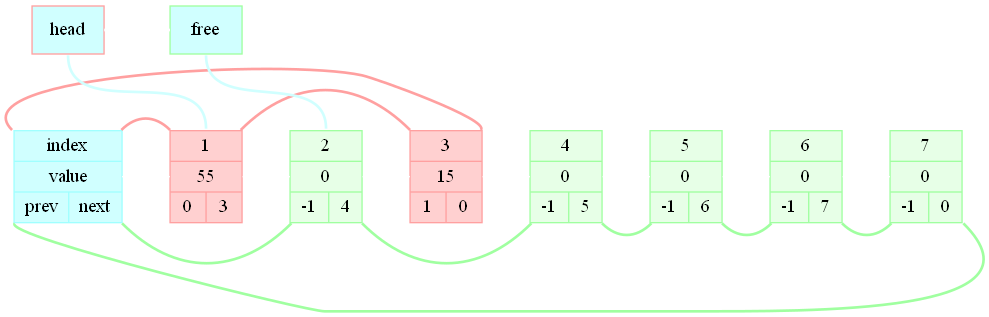
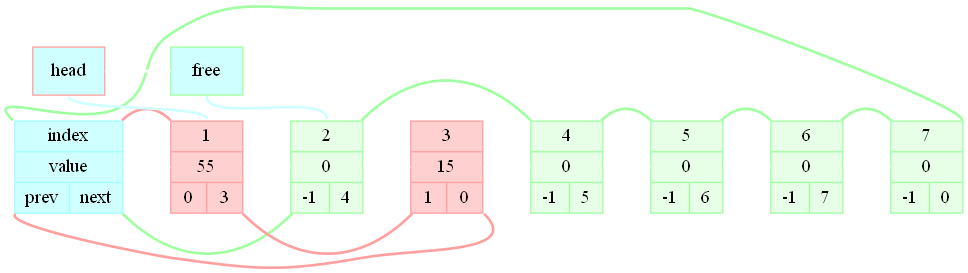
commit 2

diff --git a/graphviz/STL_graphviz.cpp b/graphviz/STL_graphviz.cpp
@@ -2,13 +2,10 @@
 
 #include <assert.h>
 
-//#define pr(...) fprintf(fp, __VA_ARGS__)
-
-
 int  STL_Graphviz (const List* list)
 {
 #define pr(...) fprintf (fp, __VA_ARGS__)
-    FILE* fp = fopen ("STL_graphviz_png.dot", "w");
+    FILE* fp = fopen ("graphviz/STL_graphviz_png.dot", "w");
     assert (fp);
 
     pr ("digraph STL\n{\n");
@@ -39,9 +36,9 @@ int  STL_Graphviz (const List* list)
     pr ("f0:ne-> f%d:nw\n", i);
     while (i != 0)
     {
-        pr ("f%d:ne-> ", i);
+        pr ("f%d:se-> ", i);
         i = list->next[i];
-        pr ("f%d:nw\n", i);
+        pr ("f%d:sw\n", i);
     }
 
     pr ("\nedge [ arrowhead = none, color = \"#A0FFA0\", style = bold ]\n");
@@ -49,9 +46,9 @@ int  STL_Graphviz (const List* list)
     pr ("f0:se-> f%d:sw\n", i);
     while (i != 0)
     {
-        pr ("f%d:se-> ", i);
+        pr ("f%d:ne-> ", i);
         i = list->next[i];
-        pr ("f%d:sw\n", i);
+        pr ("f%d:nw\n", i);
     }
 
     pr ("\nfh [ fillcolor = \"#D0FFFF\", color = \"#FFA0A0\", label = \"head\" ]\n");

diff --git a/main.cpp b/main.cpp
@@ -1,10 +1,10 @@
 #include <stdio.h>
 
-#include "STL_list.h"
-#include "STL_list_struct.h"
+#include "list/STL_list.h"
+#include "list/STL_list_struct.h"
 
-#include "STL_list_standard.h"
-#include "STL_graphviz.h"
+#include "list_standard/STL_list_standard.h"
+#include "graphviz/STL_graphviz.h"
 
     //{}o,o{}
     //   |

diff --git a/graphviz/STL_graphviz.h b/graphviz/STL_graphviz.h
@@ -1,7 +1,7 @@
 #ifndef STL_graphviz_
 #define STL_graphviz_
 
-#include "STL_list_struct.h"
+#include "../list/STL_list_struct.h"
 
 int
 STL_Graphviz (const List* list);

diff --git a/list/STL_list_struct.h b/list/STL_list_struct.h
@@ -19,6 +19,7 @@ struct List
     int capacity;
     int size;
     int free;
+
     static const int DATA_POISON = 0;
     static const int PREV_POISON = -1;
 };
